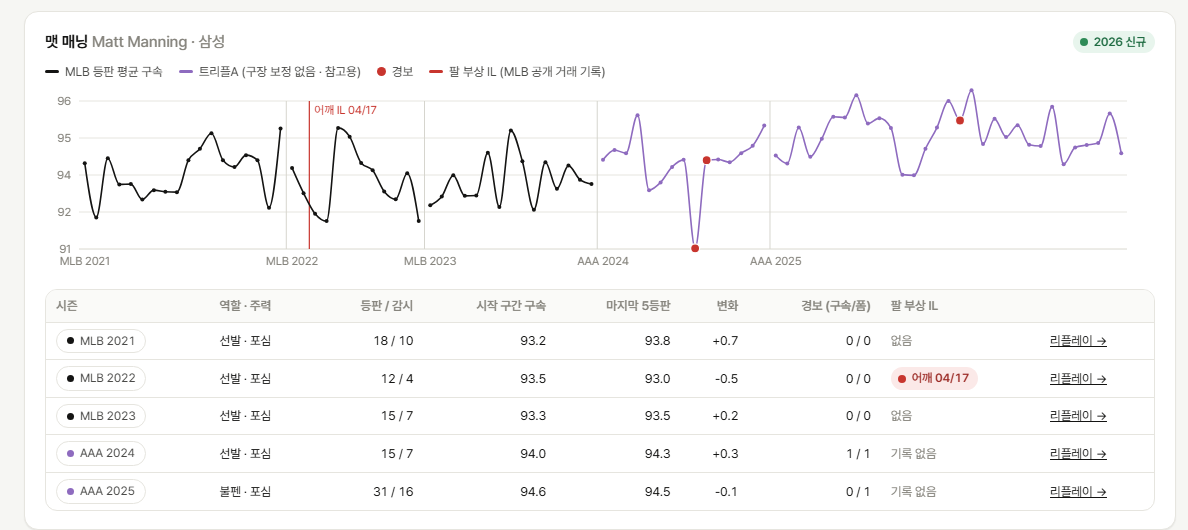
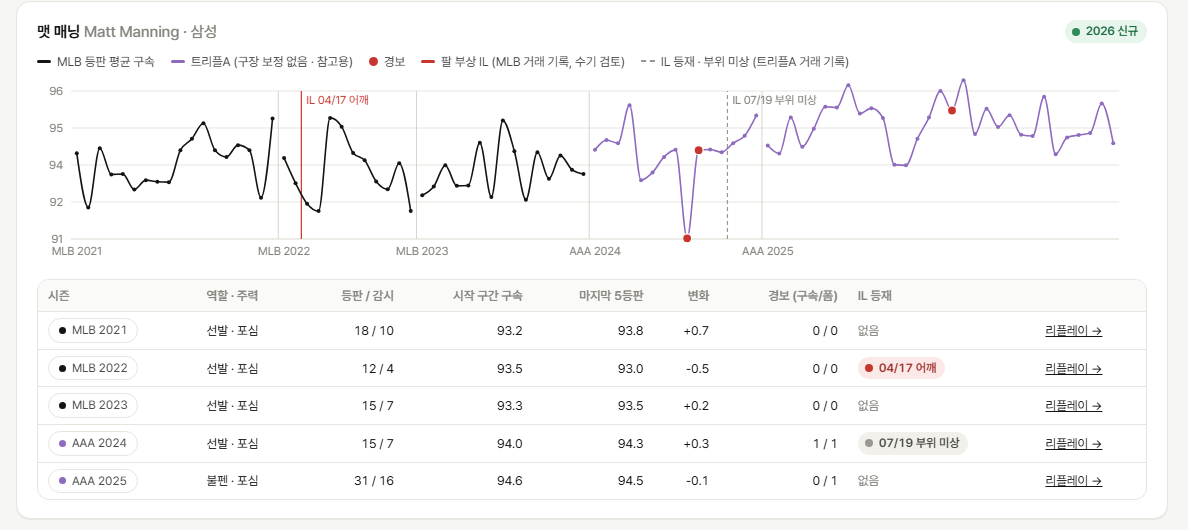
문서 갱신: 제안서 5장(화면 일곱 개 모두 실제 기록, 그림 6-4 전국체전 현황판·6-7 팀 불펜 현황판·6-5 트리플A IL)·6.1(2025 전국체전 결과표와 그림 6)·6.2·6.3, 숫자표(전국체전·팀 불펜·트리플A IL), 슬라이드 대본(고교 문장 확정, 팀 불펜 현황판), SPEC 3.14 변환 설명·3.17 화면·파일 표·변경 기록, README 설정 파일 줄; 화면 캡처 3장 교체·추가

diff --git a/docs/proposal/proposal.md b/docs/proposal/proposal.md
@@ -198,7 +198,7 @@ MLB Statcast 공개 데이터 2021~2026 시즌을 썼다 [16]. 시즌당 등판 
 
 # 5. 시제품
 
-링크 하나(https://robinkim0221.github.io/pitch-signal/)로 설치 없이 바로 쓸 수 있다. 화면은 일곱 개다: ① 리플레이·경보 카드(2021~2026 투수-시즌 2,970개와 트리플A 32개 검색, 한계 배수 조절), ② 성능 비교(검증셋·봉인 탭), ③ 고교 현황판, ④ 불펜 부하, ⑤ KBO 외국인 투수 영입 전 점검(+직접 입력), ⑥ 2026 시즌 감시 현황(최근 4주 경보 투수), 소개. 아래 네 화면이 핵심이다.
+링크 하나(https://robinkim0221.github.io/pitch-signal/)로 설치 없이 바로 쓸 수 있다. 화면은 일곱 개다: ① 리플레이·경보 카드(2021~2026 투수-시즌 2,970개와 트리플A 32개 검색, 한계 배수 조절), ② 성능 비교(검증셋·봉인 탭), ③ 고교 현황판(2025 전국체전 실제 기록), ④ 팀 불펜 현황판(MLB 30개 팀 × 6시즌, 날짜 기준 불펜 전원 신호등), ⑤ KBO 외국인 투수 영입 전 점검(+직접 입력), ⑥ 2026 시즌 감시 현황(최근 4주 경보 투수), 소개. 모든 화면이 실제 공개 기록으로 돌아가며 가상 데이터는 없다.
 
 ![그림 6-1. 리플레이 화면. 검증셋 사례 한 명의 시즌을 등판 단위로 되감는다. 위는 구속·수직 릴리스·팔 각도와 예상 범위, 아래는 지수와 경보, 오른쪽에 짝지은 대조군을 나란히 둔다.](docs/proposal/screens/01_replay.png){width=13cm}
 
@@ -206,39 +206,44 @@ MLB Statcast 공개 데이터 2021~2026 시즌을 썼다 [16]. 시즌당 등판 
 
 ![그림 6-3. 성능 비교 화면. 운영 곡선과 결과표를 전체·선발·불펜으로 나눠 본다. 4장의 숫자와 같은 파일에서 읽는다.](docs/proposal/screens/03_performance.png){width=13cm}
 
-![그림 6-4. 고교 투구수 현황판(양식 확인용 가상 입력, 실제 기록을 입력하면 바뀐다). 규정 신호등과 누적 부하 신호등을 따로 보여 주고, 일별 투구 수와 ACWR, 해외 규정 비교를 함께 둔다.](docs/proposal/screens/04_highschool.png){width=13cm}
+![그림 6-4. 고교 투구수 현황판(③) — 2025 전국체전 18세 이하부 실제 기록(가명). 위는 대회 요약(14경기, 투수 70명, 규정 위반 0, 연투 5, 91구 이상 등판 5), 가운데는 한 학교의 7일 등판 달력(칸 숫자 = 투구 수, 빗금 = 직전 투구 수가 요구하는 의무 휴식일, ? = 투구 수 미공개), 아래는 고른 투수의 등판표(직전 등판 뒤 휴식 vs 의무 휴식일)와 누적 그래프.](docs/proposal/screens/04_highschool.png){width=13cm}
 
-![그림 6-5. 외국인 투수 영입 전 점검 화면(⑤). 2026년 KBO 외국인 투수의 MLB(검정)·트리플A(보라) 시즌을 한 줄로 잇고, 경보(빨간 점)와 MLB 팔 부상 IL(빨간 선)을 표시한다. 표는 시즌별 시작 구간 구속, 마지막 5등판 구속, 경보 수, IL, 리플레이 링크.](docs/proposal/screens/05_scout.png){width=15cm}
+![그림 6-5. 외국인 투수 영입 전 점검 화면(⑤). 2026년 KBO 외국인 투수의 MLB(검정)·트리플A(보라) 시즌을 한 줄로 잇고, 경보(빨간 점), MLB 팔 부상 IL(빨간 선), 트리플A IL 등재(회색 점선, 거래 기록에 사유가 없어 대부분 부위 미상)를 표시한다. 표는 시즌별 시작 구간 구속, 마지막 5등판 구속, 경보 수, IL, 리플레이 링크.](docs/proposal/screens/05_scout.png){width=15cm}
 
 ![그림 6-6. 2026 시즌 감시 현황(⑥). 봉인 평가 결과를 운영 화면처럼 보여 준다: 시즌 감시 투수-시즌 485개, 최근 4주 경보가 울린 투수 46명과 그 뒤 팔 부상 IL 여부.](docs/proposal/screens/06_watch.png){width=13cm}
 
-**사용 흐름.** ① 구단·팀 분석 파트: 등판 다음 날 아침 '시즌 현황'에서 경보가 울린 투수를 보고 카드를 연다 → '무엇이 얼마나 달라졌나'를 보고 트레이너와 점검 여부를 정한다 → 리플레이로 최근 흐름을 확인한다. 한계 배수 슬라이더로 팀의 오경보 허용치를 고를 수 있다(기본 1.0 = 설계점). ② 고교 지도자·대회 운영본부: 경기 뒤 투수별 투구 수를 입력한다(엑셀 양식) → 규정 위반과 누적 부하 표시를 같은 화면에서 본다 → 다음 등판 가능일을 확인한다. ③ KBO 구단 스카우트: 영입 후보의 MLB·트리플A 이력 카드에서 구속 추세·경보·IL을 확인한다.
+![그림 6-7. 팀 불펜 현황판(④). 팀과 날짜를 고르면 그날 기준으로 불펜 전원의 부하 채널을 신호등(평소·주의·표시)으로 요약하고, 3일 등판·7일 투구(투수별 한계)·ACWR, 켜진 표시, 최근 14일 품질 경보, 지난 14일 등판 달력을 한 줄에 둔다. 2025년 8월 15일 LA 다저스: 13명 중 표시 1(ACWR 2.35)·주의 2, 팔 부상 IL 2명.](docs/proposal/screens/07_bullpen.png){width=13cm}
+
+**사용 흐름.** ① 구단·팀 분석 파트: 등판 다음 날 아침 '시즌 현황'에서 경보가 울린 투수를 보고 카드를 연다 → '무엇이 얼마나 달라졌나'를 보고 트레이너와 점검 여부를 정한다 → 리플레이로 최근 흐름을 확인한다. 한계 배수 슬라이더로 팀의 오경보 허용치를 고를 수 있다(기본 1.0 = 설계점). ② 불펜 운영: 경기 뒤 '팀 불펜 현황판'에서 그날 기준 불펜 전원의 부하 신호등을 보고, 표시가 켜진 투수의 시즌 그래프를 연다. ③ 고교 지도자·대회 운영본부: 경기 뒤 투수별 투구 수를 입력하거나(엑셀 양식) 협회 기록을 변환한다 → 규정 위반과 누적 부하를 같은 화면에서 본다 → 의무 휴식일과 다음 등판 가능일을 확인한다. ④ KBO 구단 스카우트: 영입 후보의 MLB·트리플A 이력 카드에서 구속 추세·경보·IL을 확인한다.
 
 **기술 구성.** 감시 엔진과 평가는 파이썬으로 구현했고(공개 저장소), 화면은 정적 웹(React)으로 만들어 서버 없이 배포한다. 선수 원데이터는 화면에 싣지 않으며, 고교 기록은 가명 코드(S01, S01-P03)만 쓴다.
 
 # 6. 한국 적용과 실증
 
-## 6.1 경기도 고교 투구수 현황판
+## 6.1 고교 투구수 현황판 — 2025 전국체전 실제 기록
 
-고교에는 추적 장비도 공식 부상 기록도 없다. 그래서 고교 모듈은 탐지 성능을 주장하지 않고, **규정이 보지 못하는 누적 부하를 보여 주는 현황판**으로 만든다. 2026 시즌 경기도 소재 고교 6곳의 공식 경기 기록(주말리그·전국대회)에서 투수별 날짜·투구 수를 입력하고, KBSA 규정 준수와 ACWR을 함께 판정한다. 학교와 선수는 가명 코드로만 다루고 실명표는 저장소 밖에 둔다.
+고교에는 추적 장비도 공식 부상 기록도 없다. 그래서 고교 모듈은 탐지 성능을 주장하지 않고, **규정이 보지 못하는 누적 부하를 보여 주는 현황판**으로 만든다. 첫 실제 입력은 **제106회 전국체육대회 18세 이하부(2025년 10월 17~23일, 부산, 15개교 14경기 단판 토너먼트)**다. 대한야구소프트볼협회(KBSA) 기록실의 경기별 투수 기록(등판 구분·이닝·투구수)을 한 번 수집해 같은 입력 형식으로 바꾸고, KBSA 투구수 규정(하루 105구, 투구 수별 의무 휴식일, 3일 연속 등판 금지) 준수와 대회 기간 누적 부하를 함께 보여 준다. 학교와 선수는 가명 코드(S01~S15, S07-P01)로만 다루고 실명 대응표는 저장소 밖에 둔다. 7일짜리 대회라 ACWR(4주 자료 필요)은 계산하지 않고 대회 누적 투구 수와 휴식 간격을 쓴다.
 
 | 항목 | 결과 |
 |---|---|
-| 입력한 학교 수 / 투수 수 / 경기 수 | [실제 입력 뒤 기입] |
-| 규정 위반 건수 (위반 투수 수) | [실제 입력 뒤 기입] |
-| ACWR 1.5 초과 경험 투수 / 계산 가능 투수 | [실제 입력 뒤 기입] |
-| 규정은 지켰지만 누적 부하 표시가 있던 투수 | [실제 입력 뒤 기입] |
+| 학교 수 / 투수 수 / 경기 수 | 15개교 / 70명(등판 101회) / 14경기 (상세 기록 미공개 1경기는 선발 2명만 '투구 수 모름') |
+| 규정 위반 건수 | 0건 (판정 불가 2등판 — 투구 수 미공개) |
+| 연투(이튿날 다시 등판) / 의무 휴식일을 꼭 채운 뒤 첫날 등판 | 5건 / 3건 |
+| 91구 이상 등판(휴식 4일 구간) / 100구 이상 등판 / 한 경기 최다 | 5회 / 3회 / 105구 |
+| 3경기 이상 등판 투수 / 한 투수의 대회 누적 최다 | 6명 / 188구 (7일) |
 
-이 표의 마지막 줄이 이 모듈의 존재 이유다. 규정을 모두 지키고도 누적 부하가 쌓인 투수가 있다면, 하루 단위 규정만으로는 보이지 않던 사각지대가 숫자로 드러난다.
+![그림 6. 2025 전국체전 18세 이하부 결승 진출 두 학교(S01, S07)의 등판 달력. 칸 숫자는 그날 투구 수(짙을수록 많음), 빗금은 직전 투구 수가 요구하는 의무 휴식일, ?는 투구 수 미공개. 규정 위반 0건인 대회에서도 부하가 몇 명에게 몰린다.](reports/figures/final/06_highschool.png){width=15cm}
+
+규정 위반은 한 건도 없었다. 그런데도 한 투수가 7일 동안 188구를 던졌고, 103구를 던진 선발이 4일 의무 휴식의 마지막 날 결승을 맞았으며, 결승에 오른 두 학교는 투수 6명이 각각 557구·356구를 나눠 던졌다. 하루 단위 규정은 모두 지켜졌지만 부하가 몇 명에게 몰리는 모습은 규정표에 나타나지 않는다 — 이것이 현황판이 보여 주는 사각지대다(그림 6). 2027 화성 전국체전에서는 같은 화면을 대회 기간에 매일 갱신하면 된다. 경기도 6개교의 2026 시즌 수기 입력 양식과 ACWR 판정(3.14절)은 그대로 남겨 두어, 시즌 단위 기록이 들어오면 같은 화면이 시즌 모드로 바뀐다.
 
 ## 6.2 KBO: 외국인 투수 영입 전 점검
 
-KBO 시즌 자체의 투구 추적 기록은 공개돼 있지 않다(KBO·포털·기록 사이트 모두 자동 수집을 금지). 대신 KBO 구단이 해마다 데려오는 외국인 투수의 **지난 시즌은 공개 추적 기록에 남아 있다**: MLB(2021~2026, 이 연구의 데이터)와 트리플A(Baseball Savant 마이너리그 Statcast, 2023~2025 — 구속·릴리스·팔 각도가 MLB와 같은 항목). 2026년 KBO 외국인 투수 26명 중 19명(신규 10·대체 영입 6·재계약 3 등)의 MLB 54개·트리플A 32개 투수-시즌에 같은 엔진을 돌려 '영입 전 점검' 이력 카드를 만들었다(화면 ⑤): 시즌별 시작 구간 구속과 마지막 5등판 구속, 경보 수, MLB 팔 부상 IL, 여러 시즌을 이은 구속 시계열. 예컨대 LG의 요니 치리노스는 2023년 MLB에서 팔꿈치 부상 IL '사례'로 이 연구의 데이터에 이미 들어 있다. 트리플A 결과는 구장 보정이 없고 한계값을 MLB 값으로 쓰므로 참고용으로 표시한다. 2026년 부상 대응 사례 네 건(그림 7)은 결정이 늦어지거나 급해지는 구조를 보여 주며, 영입 전 점검은 그 앞단의 판단 근거가 된다. 공개 기록이 없는 투수(KBO 시즌, 고교 측정기)를 위해서는 경기별 평균 구속과 투구 수를 붙여 넣어 같은 엔진을 돌리는 직접 입력 도구를 함께 두었다(간이 분석·참고용).
+KBO 시즌 자체의 투구 추적 기록은 공개돼 있지 않다(KBO·포털·기록 사이트 모두 자동 수집을 금지). 대신 KBO 구단이 해마다 데려오는 외국인 투수의 **지난 시즌은 공개 추적 기록에 남아 있다**: MLB(2021~2026, 이 연구의 데이터)와 트리플A(Baseball Savant 마이너리그 Statcast, 2023~2025 — 구속·릴리스·팔 각도가 MLB와 같은 항목). 2026년 KBO 외국인 투수 26명 중 19명(신규 10·대체 영입 6·재계약 3 등)의 MLB 54개·트리플A 32개 투수-시즌에 같은 엔진을 돌려 '영입 전 점검' 이력 카드를 만들었다(화면 ⑤): 시즌별 시작 구간 구속과 마지막 5등판 구속, 경보 수, MLB 팔 부상 IL, 트리플A IL 등재(MLB Stats API 거래 기록에서 자동 추출한 9건 — 사유 문구가 없어 모두 부위 미상), 여러 시즌을 이은 구속 시계열. 예컨대 LG의 요니 치리노스는 2023년 MLB에서 팔꿈치 부상 IL '사례'로 이 연구의 데이터에 이미 들어 있다. 트리플A 결과는 구장 보정이 없고 한계값을 MLB 값으로 쓰므로 참고용으로 표시한다. 2026년 부상 대응 사례 네 건(그림 7)은 결정이 늦어지거나 급해지는 구조를 보여 주며, 영입 전 점검은 그 앞단의 판단 근거가 된다. 공개 기록이 없는 투수(KBO 시즌, 고교 측정기)를 위해서는 경기별 평균 구속과 투구 수를 붙여 넣어 같은 엔진을 돌리는 직접 입력 도구를 함께 두었다(간이 분석·참고용).
 
 ## 6.3 실증 시나리오 — 2027 화성 전국체전
 
 1. **2027년 상반기 파일럿.** 경기도 소재 고교·대학 야구부 2~3곳과 시즌 전체 투구 기록을 입력해 현황판을 운영한다. 지도자가 실제로 보는 화면과 입력 부담을 측정한다.
-2. **전국체전 야구 경기 기간.** 대회 기록으로 투수별 투구 수를 매일 입력해 운영본부와 각 팀이 같은 현황판에서 규정 준수와 누적 부하를 확인한다. 추적 장비가 있는 경기장이라면 품질 채널도 함께 돌린다.
+2. **전국체전 야구 경기 기간.** 대회 기록으로 투수별 투구 수를 매일 입력해 운영본부와 각 팀이 같은 현황판에서 규정 준수와 누적 부하를 확인한다. 2025 전국체전 기록으로 이미 같은 화면을 만들어 보았으므로(6.1절) 입력 형식과 규칙 판정은 검증된 상태에서 시작한다. 추적 장비가 있는 경기장이라면 품질 채널도 함께 돌린다.
 3. **대회 뒤.** 협회·운영본부와 결과를 공유하고, 투구수 규정에 며칠 단위 누적 기준을 더하는 논의의 자료로 쓴다.
 
 # 7. 사업화와 로드맵

diff --git a/docs/proposal/numbers.md b/docs/proposal/numbers.md
@@ -135,3 +135,25 @@
 | 2026 KBO 외국인 투수 목록 | 26명 (신규·대체·재계약) | config_scout.yaml (연합뉴스 2026-07-09 전반기 결산 기사 기준) |
 | 공개 추적 기록 있는 투수 | 19명 (MLB 54 투수-시즌 + 트리플A 32 투수-시즌) | dashboard-web/public/data/scout.json, reports/logs/scout.log |
 | 트리플A 자료 | Baseball Savant Minor League Statcast 2023~2025, 선수별 조회, 구장 보정 없음 | src/16_scout.py |
+| 트리플A IL 등재 | 9건 (목록 투수 7명, 모두 부위 미상 — 거래 기록에 사유 문구 없음) | MLB Stats API transactions sportId=11, data/raw/transactions/aaa_<시즌>.parquet, reports/logs/scout.log |
+
+## 고교 현황판 (화면 3) — 2025 전국체전 18세 이하부
+
+| 항목 | 값 | 출처 |
+|---|---|---|
+| 대회 | 제106회 전국체육대회 18세 이하부, 2025-10-17 ~ 10-23, 15개교 14경기 (16강 7·8강 4·준결승 2·결승 1) | config_kbsa.yaml (KBSA 기록실 lig_idx 1356) |
+| 자료 | KBSA 기록실 경기 기록(/game/record_detail) 14경기, 2026-10-07 1회 수집 | data/raw/kbsa/ (저장소 밖), src/common/kbsa_boxscore.py |
+| 투수 / 등판 | 70명 / 101회 (한 경기 두 번 등판 1건 합산), 투구 수 모르는 등판 2 (준결승 1경기 상세 기록 미공개) | reports/logs/tournament.log |
+| 규정 위반 | 0건 (판정 불가 2) | data/processed/hs_tournament_violations.csv, reports/tables/hs_tournament_summary.csv |
+| 연투 / 의무 휴식 뒤 첫날 등판 / 휴식 부족 | 5 / 3 / 0 | dashboard-web/public/data/highschool.json (totals) |
+| 91구 이상 / 100구 이상 등판, 최다 | 5 / 3, 105구 | 〃 |
+| 3경기 이상 등판 투수 / 누적 최다 | 6명 / 188구 | 〃 |
+| 결승 진출 두 학교 팀 합계 | S01 557구(투수 6명), S07 356구(투수 6명) | reports/figures/final/06_highschool.png |
+
+## 팀 불펜 현황판 (화면 4)
+
+| 항목 | 값 | 출처 |
+|---|---|---|
+| 범위 | MLB 30개 팀 × 2021~2026 = 180 팀-시즌, 팀당 불펜 15~36명 | dashboard-web/public/data/teams.json |
+| 팀 배정 | 투구 원데이터의 홈·원정과 초·말 (초에 던지면 홈 팀) | src/common/teams.py, data/processed/pitcher_game_team.parquet |
+| 날짜별 계산 | 브라우저에서 등판 목록으로 다시 계산 (load.py와 같은 정의) — 실제 불펜 3시즌 등판일 178개에서 파이프라인 값과 전부 일치 | dashboard-web/src/lib/load.js, dashboard-web/tests/load.test.js |

diff --git a/README.md b/README.md
@@ -25,7 +25,8 @@ python -m pytest -q                 # 모두 통과해야 함
 ## 폴더
 | 경로 | 내용 |
 |---|---|
-| `config.yaml` | 모든 선택값과 숫자 설정 |
+| `config.yaml` | 모든 선택값과 숫자 설정 (평가 계획 고정 뒤 변경 없음) |
+| `config_scout.yaml`, `config_kbsa.yaml` | 화면 5 영입 전 점검 대상 목록, 2025 전국체전 기록 변환 설정 (평가 설정과 분리) |
 | `docs/SPEC.md` | 명세서 |
 | `src/core/` | 검증된 참조 구현 (수정 금지): 핵심 통계 함수, KBSA 규정 엔진 |
 | `tests/` | 참조 구현 테스트 |
